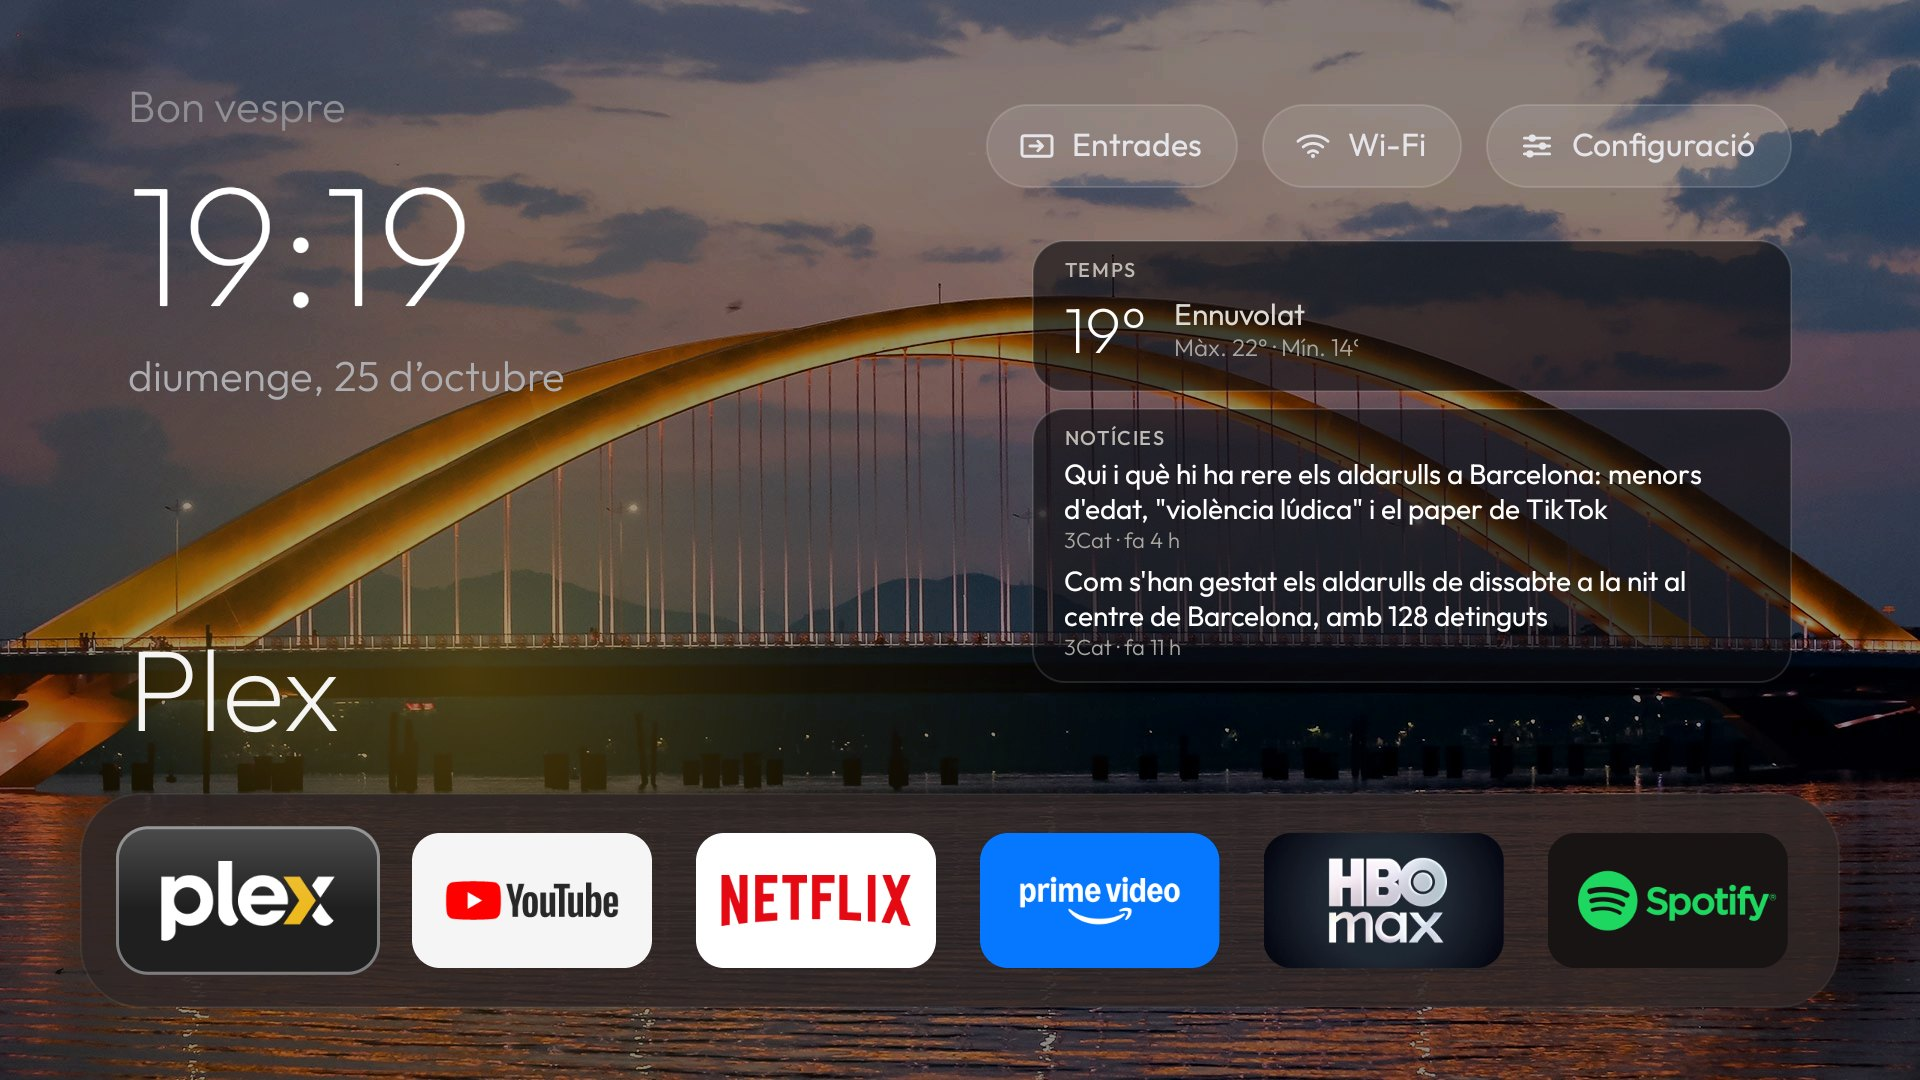
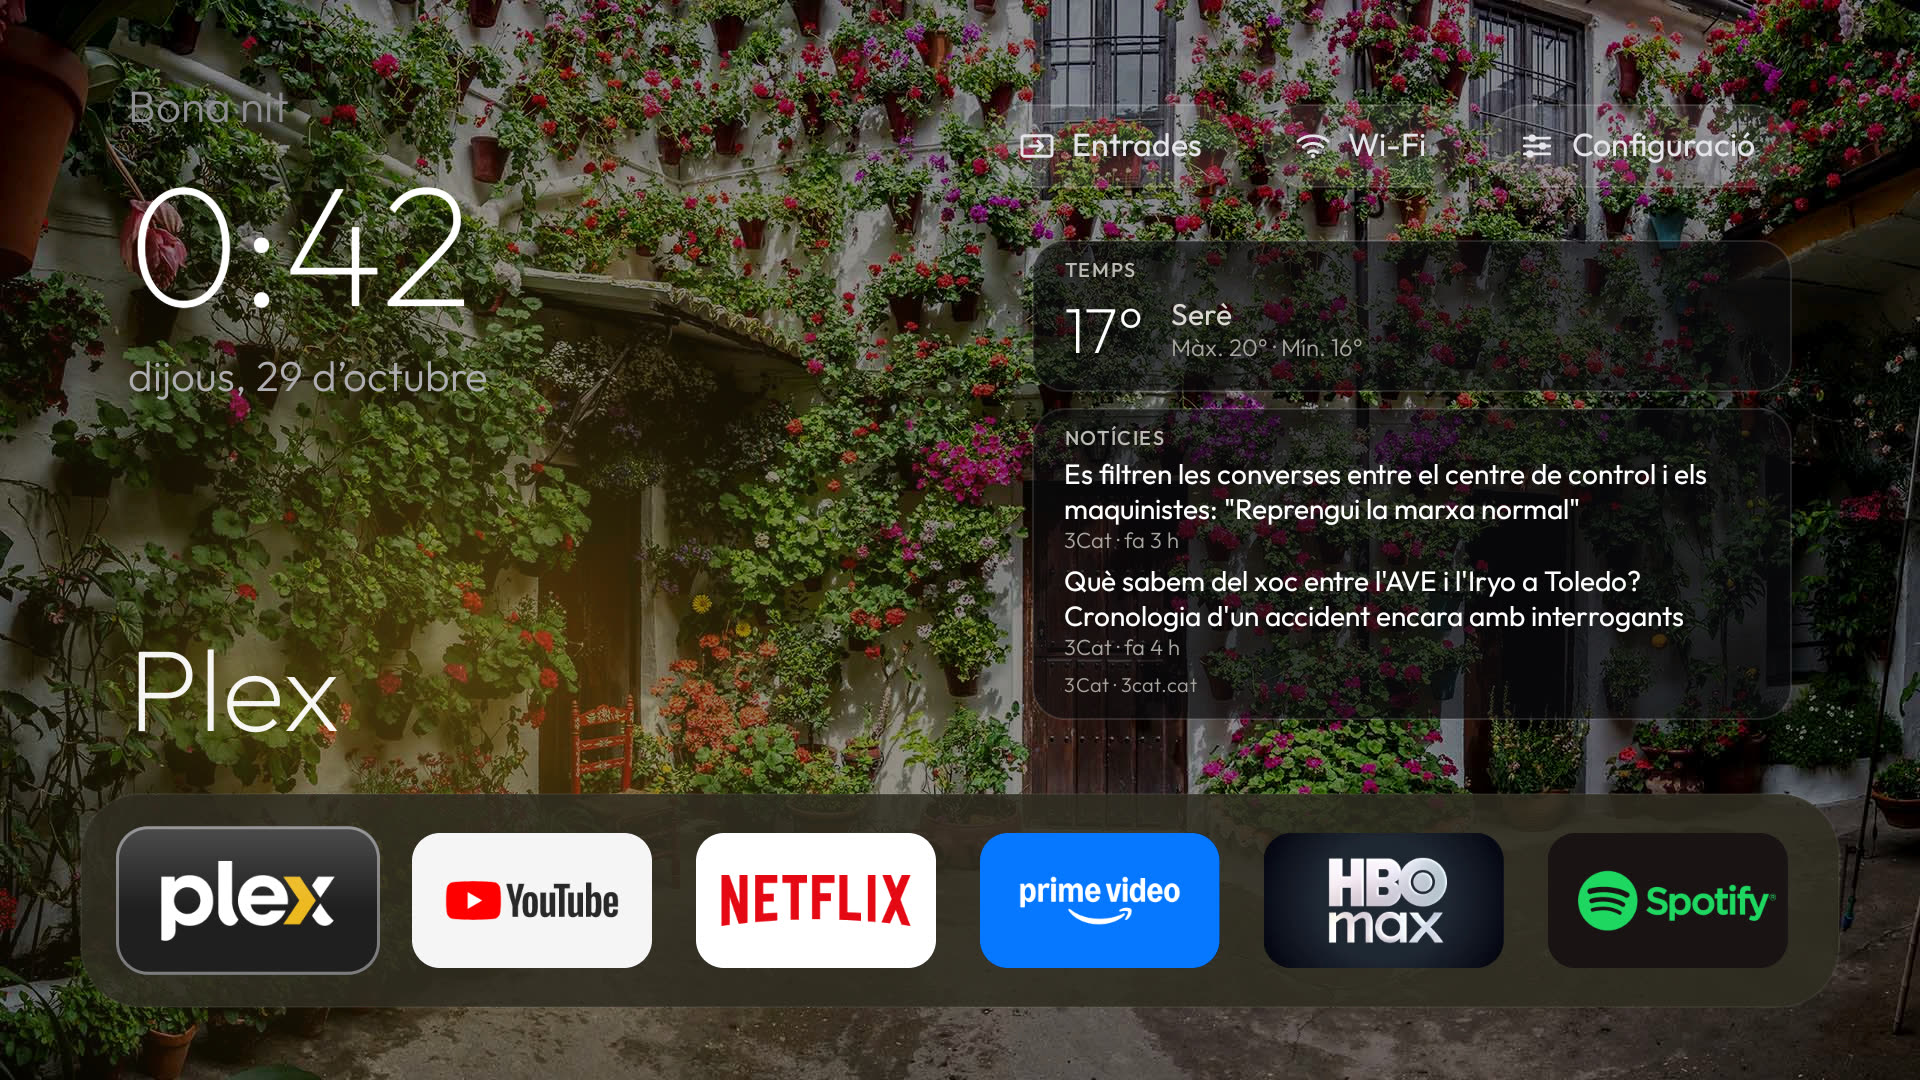
docs: show the settings menu, the news credit and the TV screensaver

diff --git a/README.md b/README.md
@@ -54,6 +54,15 @@ broadcasts, and network data is fetched only while the home screen is showing.
   gradually when the band changes.
 - **Photo-tinted dock**: the dock band takes a dark colour from the current wallpaper.
 
+**Settings**
+
+- A native settings menu on the TV (**Configuració** in the top bar), navigable with the remote. It writes to the
+  same `home.conf` as the ADB scripts, and the Android/TV settings stay reachable from it.
+- Clock format: follow the TV, 24-hour or 12-hour with AM/PM, applied to the home screen, the screensaver and the
+  next-match card.
+- News source: 3Cat (Catalan), BBC News Mundo (Spanish) or BBC News World (English), with the source credited next
+  to the headlines and the article link kept with them. A custom RSS feed always wins over the preset.
+
 **Wallpapers and screensaver**
 
 - Daily wallpapers from Bing (the last eight images, optionally rotating) or from any image URL.
@@ -81,7 +90,14 @@ The same three bands on the TV itself (Xiaomi MiTV-MSSP3, Android 11):
 | --- | --- | --- |
 | ![Day home on the TV](docs/screenshots/tv-day.jpg) | ![Morning panel on the TV](docs/screenshots/tv-morning.jpg) | ![Night mode on the TV](docs/screenshots/tv-night.jpg) |
 
-*The morning panel shows live weather and headlines; the night palette dims the wallpaper and warms the text.*
+*The morning panel shows live weather and headlines with the source credited under them; the night palette dims the
+wallpaper and warms the text.*
+
+The settings menu and the screensaver on the TV:
+
+| Settings | Screensaver |
+| --- | --- |
+| ![The LlarTV settings menu on the TV](docs/screenshots/tv-settings.jpg) | ![The screensaver with the 12-hour clock and the weather on the TV](docs/screenshots/tv-screensaver.jpg) |
 
 ## Requirements
 

diff --git a/CHANGELOG.md b/CHANGELOG.md
@@ -25,6 +25,9 @@ become the owner's choice instead of the TV's.
   cache.
 - The reuse terms of the 3Cat feed recorded in `docs/news-sources.md`, next to the BBC ones: personal and
   private use only, so a wider distribution of the app has to ask the CCMA first.
+
+### Fixed
+
 - Catalan fixes: the settings menu row for the clock is spelled "Rellotge", and the afternoon greeting is the
   Catalan "bon vespre" from 14:00 instead of the Spanishism "bon tarda".
 
